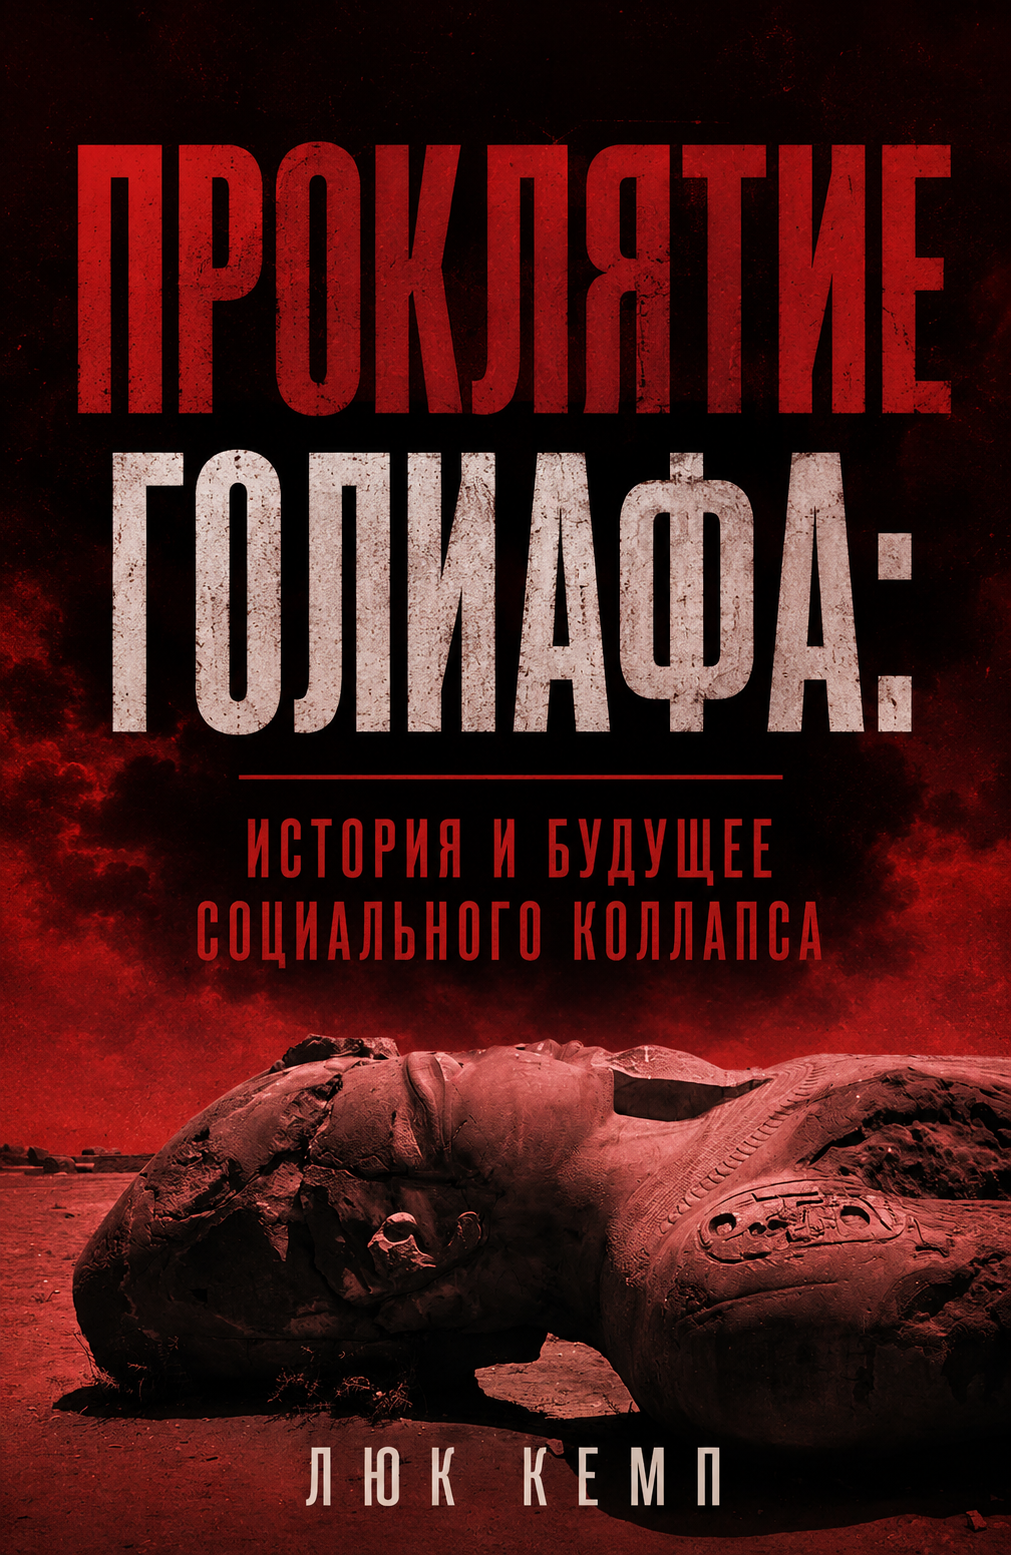
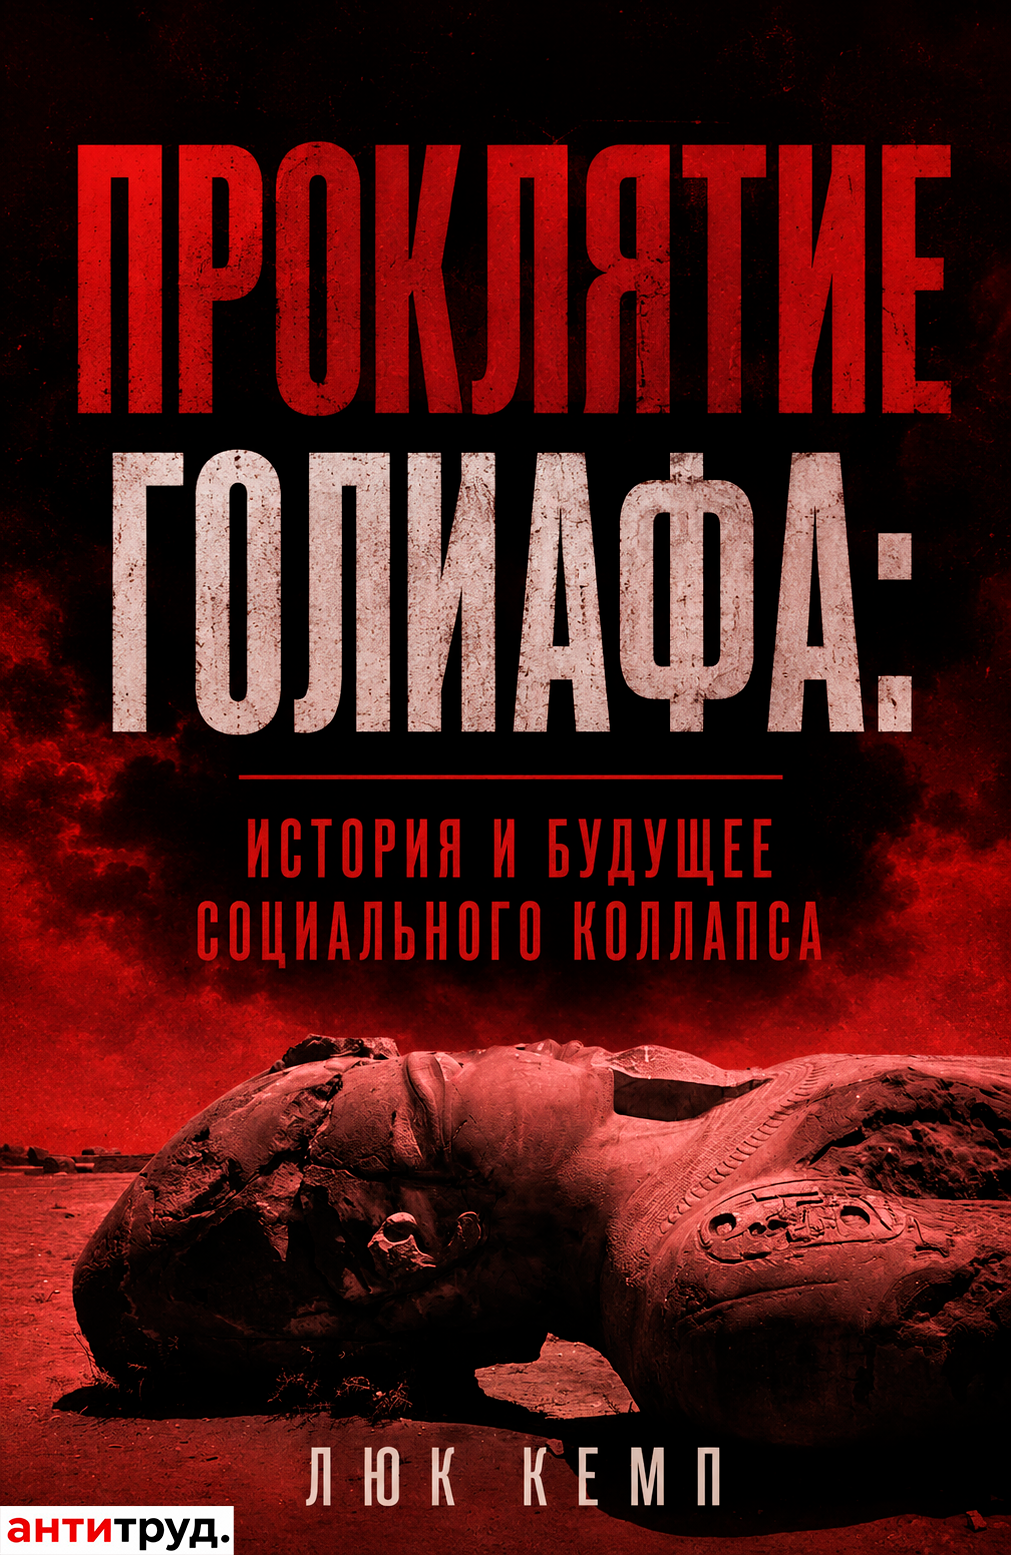
luk kemp urls

diff --git a/data/books.ts b/data/books.ts
@@ -722,8 +722,8 @@ export const books: Book[] = [
     tags: ["история"],
     status: "done",
     cover: "covers/book25.png",
-    epub: "https://drive.google.com/file/d/1A6pQcH_9IliBdjF0NGz6LTcv3y38kuZ6/view?usp=sharing",
-    pdf: "https://drive.google.com/file/d/1IOIy-1k9DPth8YZcEyiQTrL8x9_tl7co/view?usp=sharing",
+    epub: "https://drive.google.com/file/d/12B1eaT-8RDRLbLsm5wUPPKZ2oBLZAWBJ/view?usp=sharing",
+    pdf: "https://drive.google.com/file/d/1E3tc3wlNZVu-Bzora9Ex1oLzMys4F6P0/view?usp=sharing",
     tt: "https://teletype.media/@antitrud_ru/collapse",
     url: "luke-kemp-goliath",
     slug: "luke-kemp-goliath",
